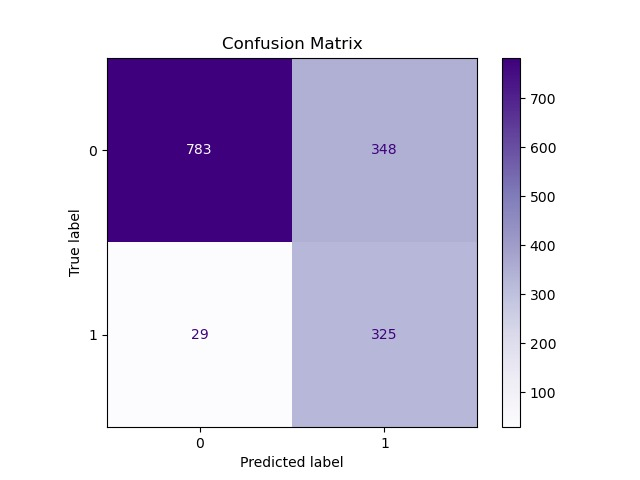
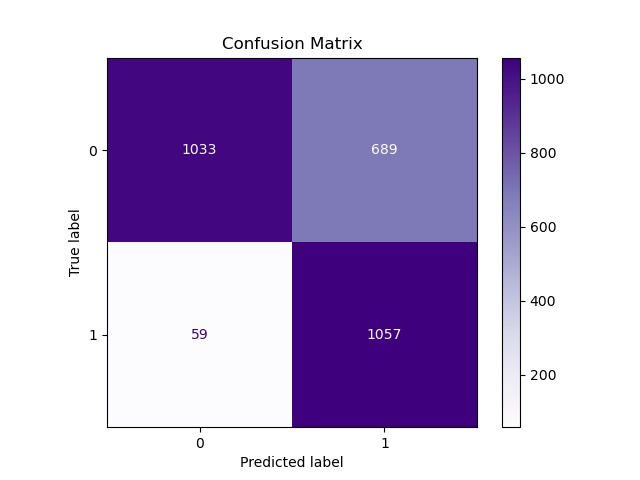
Refactor code structure for improved readability and maintainability

diff --git a/src/pages/Dashboard.jsx b/src/pages/Dashboard.jsx
@@ -2,7 +2,7 @@
 
 import { useState } from "react"
 import { motion } from "framer-motion"
-import reportImg from '../imgs/report.jpg';
+import reportImg from '../imgs/report.jpeg';
 import matrixImg from '../imgs/matrix.jpeg';
 
 
@@ -12,6 +12,7 @@ import {
   ChevronDown,
   ChevronUp,
   TrendingUp,
+  TrendingDown,
   CheckCircle2,
   AlertTriangle,
   LineChart,
@@ -39,7 +40,7 @@ export default function ProjectInformation() {
         </h1>
         <div className="flex items-center justify-center gap-2 mb-4">
           <span className="inline-flex items-center rounded-full px-2.5 py-0.5 text-xs font-medium bg-green-500 text-white">
-            75% Accuracy
+            74% Accuracy
           </span>
           <span className="inline-flex items-center rounded-full px-2.5 py-0.5 text-xs font-medium bg-blue-500 text-white">
             Validated
@@ -102,37 +103,37 @@ export default function ProjectInformation() {
                   <div className="grid grid-cols-2 gap-6 mb-6">
                     <div className="bg-gradient-to-br from-blue-50 to-indigo-50 p-4 rounded-xl border border-blue-100 flex flex-col">
                       <div className="text-sm text-gray-500 mb-1">Accuracy</div>
-                      <div className="text-3xl font-bold text-blue-700">75%</div>
-                      <div className="mt-2 flex items-center text-xs text-green-600">
-                        <TrendingUp className="h-3 w-3 mr-1" />
-                        <span>+2.3% from baseline</span>
+                      <div className="text-3xl font-bold text-blue-700">74%</div>
+                      <div className="mt-2 flex items-center text-xs text-pink-700">
+                        <TrendingDown className="h-3 w-3 mr-1" />
+                        <span>-2.3% from baseline</span>
                       </div>
                     </div>
 
                     <div className="bg-gradient-to-br from-purple-50 to-pink-50 p-4 rounded-xl border border-purple-100 flex flex-col">
                       <div className="text-sm text-gray-500 mb-1">Precision</div>
-                      <div className="text-3xl font-bold text-purple-700">85%</div>
-                      <div className="mt-2 flex items-center text-xs text-green-600">
-                        <TrendingUp className="h-3 w-3 mr-1" />
-                        <span>+1.8% from baseline</span>
+                      <div className="text-3xl font-bold text-purple-700">81%</div>
+                      <div className="mt-2 flex items-center text-xs text-pink-700">
+                        <TrendingDown className="h-3 w-3 mr-1" />
+                        <span>-4.71% from baseline</span>
                       </div>
                     </div>
 
                     <div className="bg-gradient-to-br from-pink-50 to-rose-50 p-4 rounded-xl border border-pink-100 flex flex-col">
                       <div className="text-sm text-gray-500 mb-1">Recall</div>
-                      <div className="text-3xl font-bold text-pink-700">75%</div>
-                      <div className="mt-2 flex items-center text-xs text-green-600">
-                        <TrendingUp className="h-3 w-3 mr-1" />
-                        <span>+3.2% from baseline</span>
+                      <div className="text-3xl font-bold text-pink-700">74%</div>
+                      <div className="mt-2 flex items-center text-xs text-pink-700">
+                        <TrendingDown className="h-3 w-3 mr-1" />
+                        <span>–1.33% from baseline</span>
                       </div>
                     </div>
 
                     <div className="bg-gradient-to-br from-amber-50 to-yellow-50 p-4 rounded-xl border border-amber-100 flex flex-col">
                       <div className="text-sm text-gray-500 mb-1">F1 Score</div>
-                      <div className="text-3xl font-bold text-amber-700">76%</div>
-                      <div className="mt-2 flex items-center text-xs text-green-600">
-                        <TrendingUp className="h-3 w-3 mr-1" />
-                        <span>+2.5% from baseline</span>
+                      <div className="text-3xl font-bold text-amber-700">74%</div>
+                      <div className="mt-2 flex items-center text-xs text-pink-700">
+                        <TrendingDown className="h-3 w-3 mr-1" />
+                        <span>–2.63% from baseline</span>
                       </div>
                     </div>
                   </div>
@@ -206,13 +207,13 @@ export default function ProjectInformation() {
                       <div className="flex justify-between items-center mb-1">
                         <span className="text-sm text-gray-500">True Positives</span>
                         <span className="text-xs font-medium text-green-700 bg-green-100 px-2 py-0.5 rounded-full">
-                          52.7%
+                          36.41%
                         </span>
                       </div>
-                      <div className="text-2xl font-bold text-green-700">783</div>
+                      <div className="text-2xl font-bold text-green-700">1033</div>
                       <div className="mt-2">
                         <div className="w-full bg-green-100 rounded-full h-2">
-                          <div className="bg-green-500 h-2 rounded-full" style={{ width: " 52.7%" }}></div>
+                          <div className="bg-green-500 h-2 rounded-full" style={{ width: " 36.41%" }}></div>
                         </div>
                       </div>
                     </div>
@@ -221,13 +222,13 @@ export default function ProjectInformation() {
                       <div className="flex justify-between items-center mb-1">
                         <span className="text-sm text-gray-500">False Positives</span>
                         <span className="text-xs font-medium text-red-700 bg-red-100 px-2 py-0.5 rounded-full">
-                          23.4%
+                          24.27%
                         </span>
                       </div>
-                      <div className="text-2xl font-bold text-red-700">348</div>
+                      <div className="text-2xl font-bold text-red-700">689</div>
                       <div className="mt-2">
                         <div className="w-full bg-red-100 rounded-full h-2">
-                          <div className="bg-red-500 h-2 rounded-full" style={{ width: "23.4%" }}></div>
+                          <div className="bg-red-500 h-2 rounded-full" style={{ width: "24.27%" }}></div>
                         </div>
                       </div>
                     </div>
@@ -236,13 +237,13 @@ export default function ProjectInformation() {
                       <div className="flex justify-between items-center mb-1">
                         <span className="text-sm text-gray-500">False Negatives</span>
                         <span className="text-xs font-medium text-amber-700 bg-amber-100 px-2 py-0.5 rounded-full">
-                          2.0%
+                          2.08%
                         </span>
                       </div>
-                      <div className="text-2xl font-bold text-amber-700">29</div>
+                      <div className="text-2xl font-bold text-amber-700">59</div>
                       <div className="mt-2">
                         <div className="w-full bg-amber-100 rounded-full h-2">
-                          <div className="bg-amber-500 h-2 rounded-full" style={{ width: "2.0%" }}></div>
+                          <div className="bg-amber-500 h-2 rounded-full" style={{ width: "2.08%" }}></div>
                         </div>
                       </div>
                     </div>
@@ -251,13 +252,13 @@ export default function ProjectInformation() {
                       <div className="flex justify-between items-center mb-1">
                         <span className="text-sm text-gray-500">True Negatives</span>
                         <span className="text-xs font-medium text-blue-700 bg-blue-100 px-2 py-0.5 rounded-full">
-                          21.9%
+                          37.25%
                         </span>
                       </div>
-                      <div className="text-2xl font-bold text-blue-700">325</div>
+                      <div className="text-2xl font-bold text-blue-700">1057</div>
                       <div className="mt-2">
                         <div className="w-full bg-blue-100 rounded-full h-2">
-                          <div className="bg-blue-500 h-2 rounded-full" style={{ width: "21.9%" }}></div>
+                          <div className="bg-blue-500 h-2 rounded-full" style={{ width: "37.25%" }}></div>
                         </div>
                       </div>
                     </div>
@@ -266,10 +267,10 @@ export default function ProjectInformation() {
 
                 <div className="bg-gray-50 border-t px-6 py-4">
                   <div className="w-full flex justify-between items-center text-sm text-gray-500">
-                    <span>Total samples: 1,485</span>
+                    <span>Total samples: 2,838</span>
                     <span className="flex items-center">
                       <CheckCircle2 className="h-4 w-4 text-green-500 mr-1" />
-                      75% overall accuracy
+                      74% overall accuracy
                     </span>
                   </div>
                 </div>
